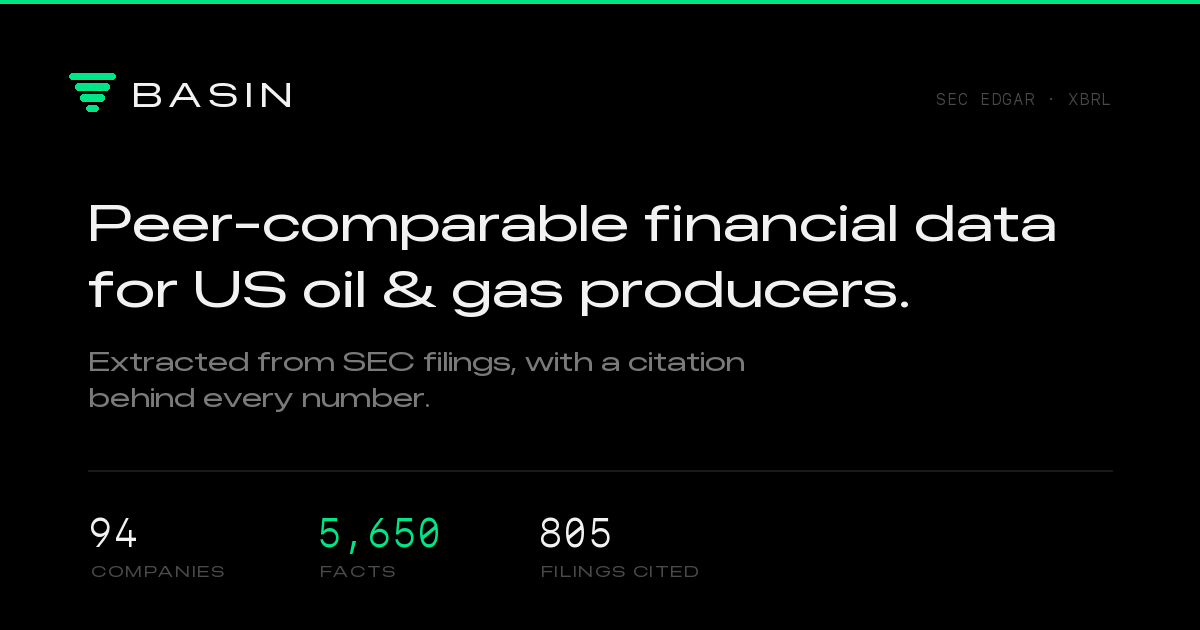
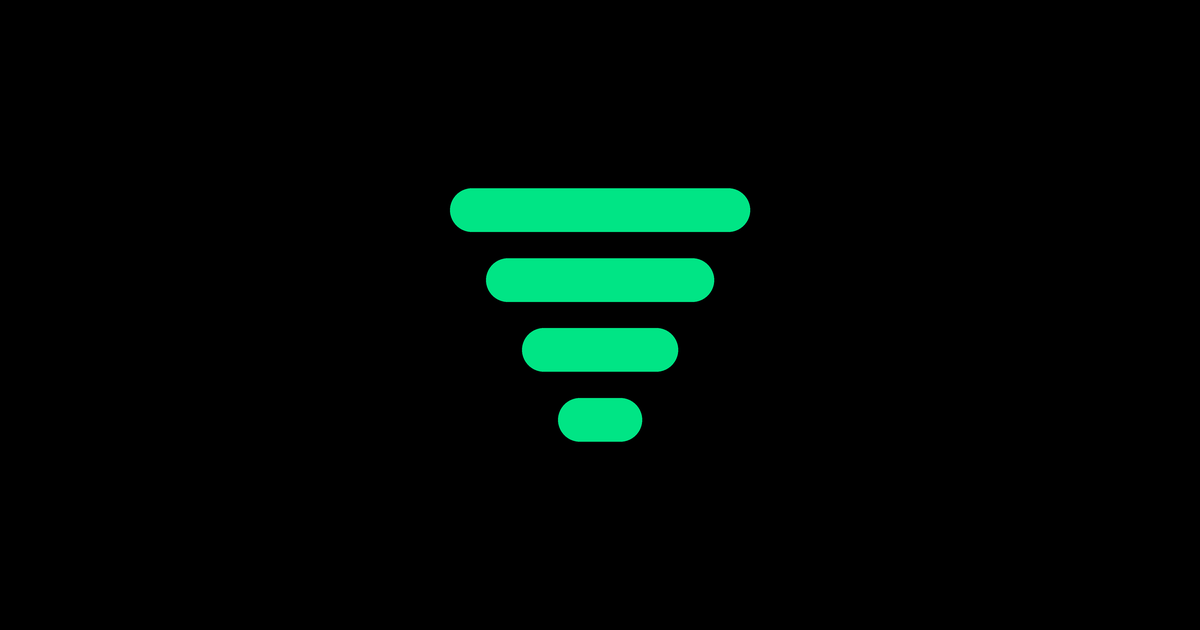
Scope Coverage to a cohort, and say what the counts above it are counting
Coverage drew its grid over every company the store had ever ingested, which
after cohorts meant it disagreed with the panel by 44 companies. Sitting in it
were the SIC-1311 residue that was never in a cohort — Abundia, Camber — and
filers since acquired or taken private, Civitas and Continental among them.

That matters more here than anywhere else, because a blank cell in this view is
supposed to be the extraction layer's mandate drawn to scale. Blanks belonging
to companies that are out of scope are not work to be done, and counting them
overstates the job.

The cohort is one selection shared across views rather than a control per view.
Panel and Coverage answering "which companies" differently is the discrepancy
this removes, and two independent pickers would reintroduce it a click later.

The store-wide counts move with it but stay store-wide, now captioned as such.
Making them cohort-aware would be a larger change and they are genuinely useful
as totals; sitting unlabelled above a 75-row grid reading 135 companies was the
actual problem.

diff --git a/src/basin/web/static/index.html b/src/basin/web/static/index.html
@@ -19,7 +19,7 @@
 <meta property="og:image" content="{{BASE_URL}}/static/og.png">
 <meta property="og:image:width" content="1200">
 <meta property="og:image:height" content="630">
-<meta property="og:image:alt" content="Basin — peer-comparable financial data for US oil and gas producers.">
+<meta property="og:image:alt" content="The Basin mark.">
 
 <meta name="twitter:card" content="summary_large_image">
 <meta name="twitter:title" content="Basin — peer-comparable oil &amp; gas data from SEC filings">
@@ -122,6 +122,13 @@
 
   /* ---- stat band: its own horizontal rule, generous air ---- */
 
+  /* The counts are store-wide and the grid under them is not. Saying so is
+     cheaper than making them cohort-aware, and more honest than letting the
+     reader assume either way. */
+  .stats-caption {
+    color: var(--dim); font-size: 11.5px;
+    margin: 0; padding: 20px 40px 0;
+  }
   .stats {
     display: flex;
     flex-wrap: wrap;
@@ -640,7 +647,13 @@
   </nav>
 </header>
 
-<div class="stats" id="stats"></div>
+<div id="stats-wrap" hidden>
+  <p class="stats-caption">
+    Across the whole store, every cohort and every company ever ingested — not the grid below,
+    which is scoped to the selected cohort.
+  </p>
+  <div class="stats" id="stats"></div>
+</div>
 
 <main>
   <section id="view-panel">
@@ -680,8 +693,11 @@
     <p class="note">
       Which companies tag which concepts in XBRL, and how recently. A solid mark is
       <strong>current</strong> (period ending 2023 or later); a faint mark means the filer tagged the
-      concept once and stopped. Blank is the gap the extraction layer has to close.
+      concept once and stopped. Blank is the gap the extraction layer has to close — which is why
+      the cohort matters here: outside one, the blanks include companies that are out of scope
+      rather than work still to do.
     </p>
+    <div class="cohorts" id="coverage-cohort-filter" role="group" aria-label="Cohort"></div>
     <div class="scroll"><table class="matrix" id="coverage-table"></table></div>
     <div class="legend">
       <span><span class="cell has current"></span>Current</span>
@@ -1084,30 +1100,57 @@ function clusterByCompany(rows, valueOf) {
 let concepts = [];
 let cohort = null;
 
+let cohortRows = [];
+
+// The cohort is one selection shared by every view that has one, not a control
+// per view. Panel and Coverage answering "which companies" differently is the
+// discrepancy this filter exists to remove, and two independent pickers would
+// reintroduce it a click later.
+const COHORT_FILTERS = {
+  "#cohort-filter": () => loadKpiIndex().then(loadPanel),
+  "#coverage-cohort-filter": () => loadCoverage(),
+};
+
+function renderCohortFilters() {
+  for (const id of Object.keys(COHORT_FILTERS)) {
+    const el = $(id);
+    if (!el) continue;
+    el.innerHTML = cohortRows
+      .map((r) => `<button type="button" data-cohort="${esc(r.cohort)}" ` +
+                  `aria-pressed="${r.cohort === cohort}" ` +
+                  `title="${r.with_facts} of ${r.companies} have facts in the store">` +
+                  `${esc(r.cohort)}<span class="n">${r.companies}</span></button>`)
+      .join("") +
+      `<button type="button" data-cohort="" aria-pressed="${cohort === null}" ` +
+      `title="Every company in the store, including ones that were never in a cohort. ` +
+      `Useful for auditing what has been ingested, not for reading as scope.">All</button>`;
+  }
+}
+
 async function loadCohorts() {
-  const rows = await api("/api/cohorts");
-  if (!rows.length) return;
+  cohortRows = await api("/api/cohorts");
+  if (!cohortRows.length) return;
   // Default to the largest cohort rather than to "all": an unfiltered panel
   // mixes cohorts, and a mixed peer table is the one thing this view must not
   // quietly render.
-  cohort = rows[0].cohort;
-  $("#cohort-filter").innerHTML = rows
-    .map((r) => `<button type="button" data-cohort="${esc(r.cohort)}" ` +
-                `aria-pressed="${r.cohort === cohort}" ` +
-                `title="${r.with_facts} of ${r.companies} have facts in the store">` +
-                `${esc(r.cohort)}<span class="n">${r.companies}</span></button>`)
-    .join("") +
-    `<button type="button" data-cohort="" aria-pressed="false" ` +
-    `title="Every cohort at once. Useful for auditing the store, not for reading a peer table.">All</button>`;
+  cohort = cohortRows[0].cohort;
+  renderCohortFilters();
 
-  $("#cohort-filter").addEventListener("click", (e) => {
-    const b = e.target.closest("button[data-cohort]");
-    if (!b) return;
-    cohort = b.dataset.cohort || null;
-    $("#cohort-filter").querySelectorAll("button").forEach((x) =>
-      x.setAttribute("aria-pressed", String(x === b)));
-    loadKpiIndex().then(loadPanel);
-  });
+  for (const [id, reload] of Object.entries(COHORT_FILTERS)) {
+    const el = $(id);
+    if (!el) continue;
+    el.addEventListener("click", (e) => {
+      const b = e.target.closest("button[data-cohort]");
+      if (!b) return;
+      cohort = b.dataset.cohort || null;
+      renderCohortFilters();   // every filter, so the views cannot disagree
+      // Coverage caches its render, so drop it: whichever view is on screen
+      // reloads now, and the other picks up the new cohort when it is opened.
+      loaded.delete("coverage");
+      reload();
+      if (id === "#coverage-cohort-filter") loaded.add("coverage");
+    });
+  }
 }
 
 async function loadConcepts() {
@@ -1295,7 +1338,7 @@ const SHORT_LABEL = {
 };
 
 async function loadCoverage() {
-  const data = await api("/api/coverage");
+  const data = await api(`/api/coverage${cohort ? `?cohort=${encodeURIComponent(cohort)}` : ""}`);
   const labels = Object.fromEntries(concepts.map((c) => [c.key, c.label]));
   const short = (k) => labels[k] || k;
 
@@ -1621,7 +1664,7 @@ async function showView(view) {
   // dataset does and does not hold. Above the panel they described a different
   // population than the table underneath -- 135 companies over a 75-company
   // cohort -- which invited reading them as the panel's own totals.
-  $("#stats").hidden = view !== "coverage";
+  $("#stats-wrap").hidden = view !== "coverage";
   if (!loaded.has(view)) { await loaders[view](); loaded.add(view); }
   window.scrollTo({ top: 0, behavior: "smooth" });
 }
@@ -1656,7 +1699,7 @@ document.addEventListener("pointerdown", (e) => {
   $("#history").hidden = true;
 });
 
-$("#stats").hidden = true;
+$("#stats-wrap").hidden = true;
 loadCohorts().then(loadKpiIndex).then(loadConcepts);
 </script>
 </body>

diff --git a/scripts/make_assets.py b/scripts/make_assets.py
@@ -4,53 +4,19 @@ Run after changing the brand marks:
 
     python scripts/make_assets.py
 
-Outputs into ``src/basin/web/static``. The card pulls its figures from the
-fact store when one is present, so the image a link preview shows is the size
-of the actual dataset rather than a number typed into a design file.
+Outputs into ``src/basin/web/static``.
 """
 
 from __future__ import annotations
 
-import sqlite3
 from pathlib import Path
 
-from PIL import Image, ImageDraw, ImageFont
+from PIL import Image, ImageDraw
 
 STATIC = Path("src/basin/web/static")
-DB = Path("data/basin.db")
 
 BLACK = (0, 0, 0)
 GREEN = (0, 229, 133)
-TEXT = (242, 242, 242)
-MUTED = (122, 122, 122)
-DIM = (74, 74, 74)
-LINE = (26, 26, 26)
-
-SANS = "/System/Library/Fonts/SFNS.ttf"
-MONO = "/System/Library/Fonts/SFNSMono.ttf"
-
-
-def font(path: str, size: int, weight: float | None = None) -> ImageFont.FreeTypeFont:
-    f = ImageFont.truetype(path, size)
-    if weight is not None:
-        try:
-            f.set_variation_by_axes([weight])
-        except (OSError, AttributeError):
-            pass  # static font: the base weight is what we get
-    return f
-
-
-def tracked(draw, xy, text, fnt, fill, tracking=0.0):
-    """Draw text with letter-spacing, which PIL does not support natively."""
-    x, y = xy
-    for ch in text:
-        draw.text((x, y), ch, font=fnt, fill=fill)
-        x += draw.textlength(ch, font=fnt) + tracking
-    return x
-
-
-def tracked_width(draw, text, fnt, tracking=0.0) -> float:
-    return sum(draw.textlength(c, font=fnt) for c in text) + tracking * max(len(text) - 1, 0)
 
 
 def draw_mark(draw, cx, cy, size):
@@ -99,61 +65,15 @@ def make_favicon() -> None:
     )
 
 
-def dataset_stats() -> list[tuple[str, str]]:
-    if not DB.exists():
-        return []
-    conn = sqlite3.connect(f"file:{DB}?mode=ro", uri=True)
-    try:
-        one = lambda q: conn.execute(q).fetchone()[0]  # noqa: E731
-        return [
-            (f"{one('SELECT COUNT(*) FROM company'):,}", "COMPANIES"),
-            (f"{one('SELECT COUNT(*) FROM fact'):,}", "FACTS"),
-            (f"{one('SELECT COUNT(*) FROM filing'):,}", "FILINGS CITED"),
-        ]
-    finally:
-        conn.close()
-
-
 def make_share_card() -> None:
+    """The mark alone on black -- a link preview is seen at thumbnail size,
+    where anything more than the logo is unreadable anyway."""
     W, H = 1200, 630
-    img = Image.new("RGB", (W, H), BLACK)
+    scale = 4
+    img = Image.new("RGB", (W * scale, H * scale), BLACK)
     d = ImageDraw.Draw(img)
-
-    d.rectangle([0, 0, W, 3], fill=GREEN)
-
-    draw_mark(d, 92, 92, 46)
-
-    wordmark = font(SANS, 34, 700)
-    tracked(d, (132, 74), "BASIN", wordmark, TEXT, tracking=7)
-
-    headline = font(SANS, 52, 600)
-    for i, line in enumerate(
-        ["Peer-comparable financial data", "for US oil & gas producers."]
-    ):
-        d.text((88, 190 + i * 66), line, font=headline, fill=TEXT)
-
-    sub = font(SANS, 27, 400)
-    d.text((88, 344), "Extracted from SEC filings, with a citation", font=sub, fill=MUTED)
-    d.text((88, 380), "behind every number.", font=sub, fill=MUTED)
-
-    stats = dataset_stats()
-    if stats:
-        d.rectangle([88, 470, W - 88, 471], fill=LINE)
-        num_f, lbl_f = font(MONO, 40, 500), font(SANS, 15, 500)
-        x = 88
-        for value, label in stats:
-            d.text((x, 508), value, font=num_f, fill=GREEN if label == "FACTS" else TEXT)
-            tracked(d, (x + 3, 562), label, lbl_f, DIM, tracking=1.6)
-            x += max(
-                d.textlength(value, font=num_f),
-                tracked_width(d, label, lbl_f, 1.6),
-            ) + 96
-
-    tag = font(MONO, 17, 400)
-    text = "SEC EDGAR · XBRL"
-    d.text((W - 88 - d.textlength(text, font=tag), 88), text, font=tag, fill=DIM)
-
-    img.save(STATIC / "og.png")
+    draw_mark(d, W * scale / 2, H * scale / 2, 300 * scale)
+    img.resize((W, H), Image.LANCZOS).save(STATIC / "og.png")
 
 
 if __name__ == "__main__":

diff --git a/src/basin/store/queries.py b/src/basin/store/queries.py
@@ -336,24 +336,34 @@ def companies(conn: sqlite3.Connection) -> list[dict[str, Any]]:
     )
 
 
-def coverage_matrix(conn: sqlite3.Connection) -> dict[str, Any]:
+def coverage_matrix(
+    conn: sqlite3.Connection, cohort: str | None = None
+) -> dict[str, Any]:
     """Which companies have which concepts, and how recently.
 
     The point of this view is that absence is as informative as presence: a
     blank cell here is what the extraction layer has to fill.
+
+    Which makes the scope load-bearing. Unfiltered, the grid draws that mandate
+    over every company the store has ever ingested -- including the SIC-1311
+    residue that was never in a cohort, and filers since acquired or taken
+    private. Those blanks are not work to be done; they are companies out of
+    scope. Passing a cohort measures the mandate the product actually has.
     """
     concept_keys = [c["key"] for c in concepts(conn)]
-    rows = _rows(
-        conn,
-        """
+    sql = """
         SELECT c.cik, c.name, c.ticker, f.concept_key,
                MAX(f.period_end) AS latest_period,
                COUNT(*) AS cells
         FROM company c
         LEFT JOIN fact_current f ON f.cik = c.cik
-        GROUP BY c.cik, f.concept_key
-        """,
-    )
+    """
+    params: tuple = ()
+    if cohort:
+        sql += " WHERE c.cohort = ?"
+        params = (cohort,)
+    sql += " GROUP BY c.cik, f.concept_key"
+    rows = _rows(conn, sql, params)
 
     by_company: dict[str, dict[str, Any]] = {}
     for row in rows:
@@ -370,7 +380,11 @@ def coverage_matrix(conn: sqlite3.Connection) -> dict[str, Any]:
     companies_out = sorted(
         by_company.values(), key=lambda c: (-len(c["concepts"]), c["name"] or "")
     )
-    return {"concept_keys": concept_keys, "companies": companies_out}
+    return {
+        "concept_keys": concept_keys,
+        "companies": companies_out,
+        "cohort": cohort,
+    }
 
 
 def data_quality(conn: sqlite3.Connection) -> dict[str, Any]:

diff --git a/src/basin/web/app.py b/src/basin/web/app.py
@@ -225,10 +225,10 @@ def api_history(cik: str = Query(...), concept: str = Query(...),
 
 
 @app.get("/api/coverage")
-def api_coverage() -> dict:
+def api_coverage(cohort: str | None = None) -> dict:
     conn = _conn()
     try:
-        return queries.coverage_matrix(conn)
+        return queries.coverage_matrix(conn, cohort)
     finally:
         conn.close()
 
